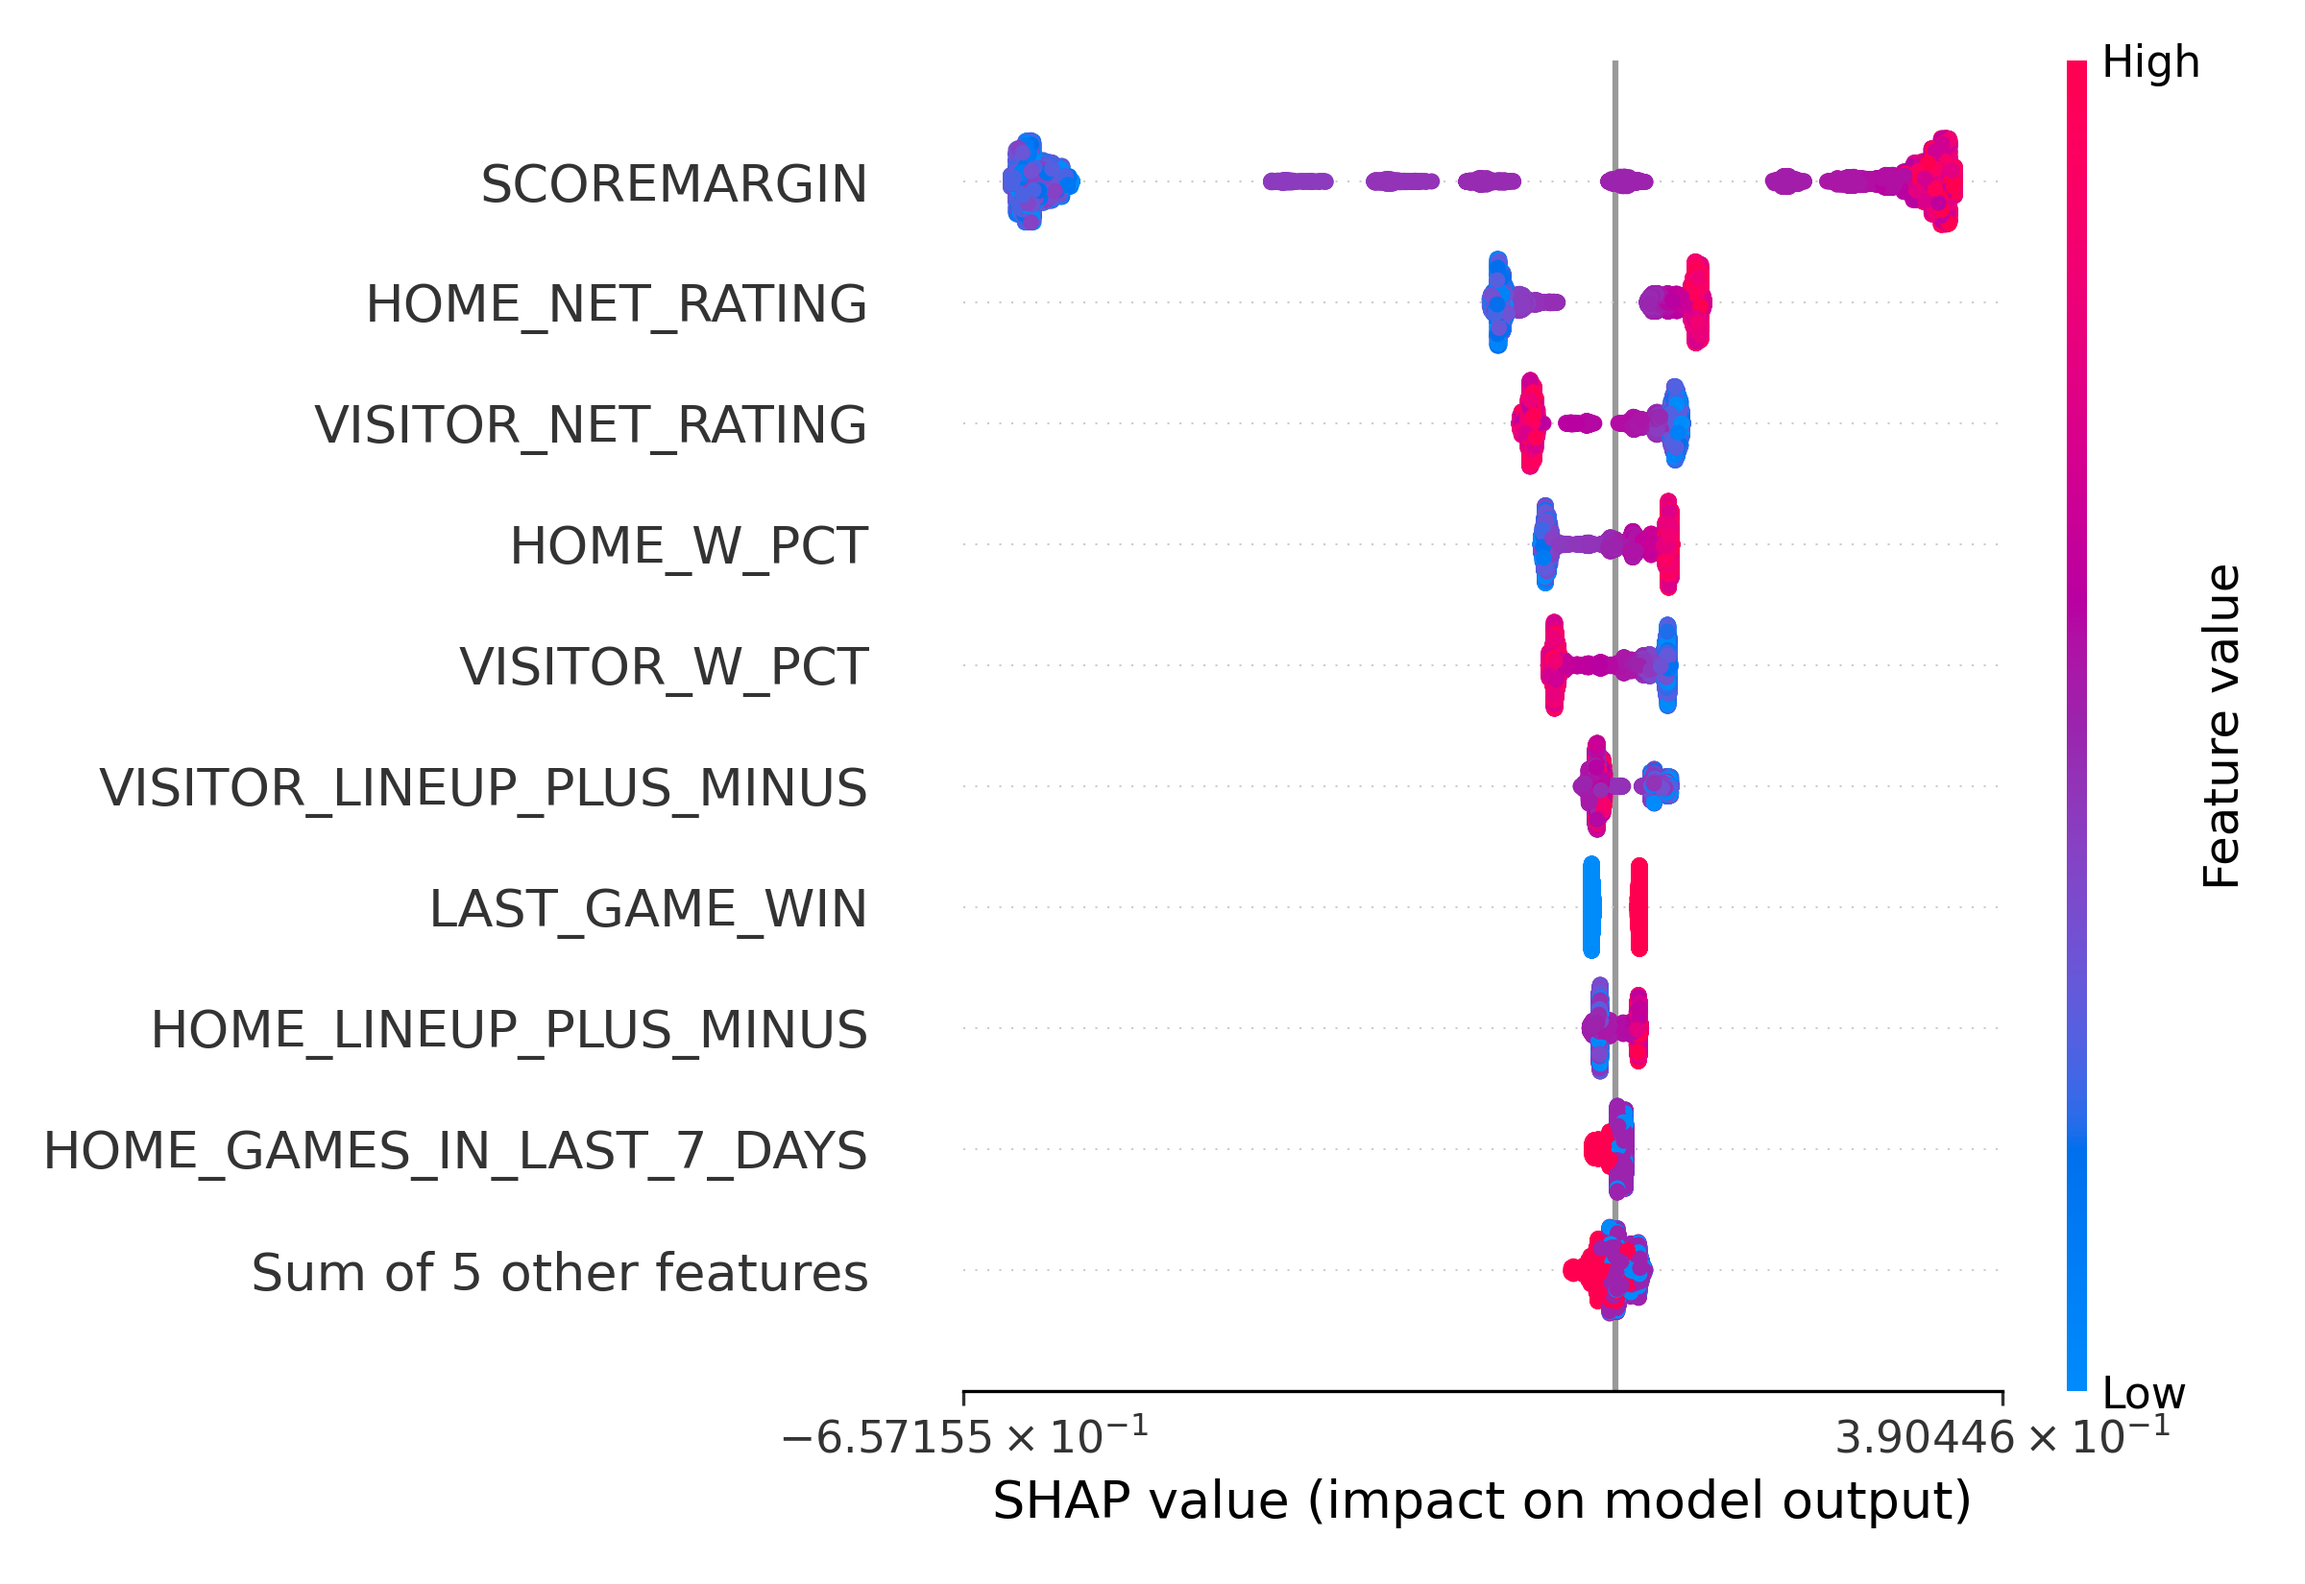
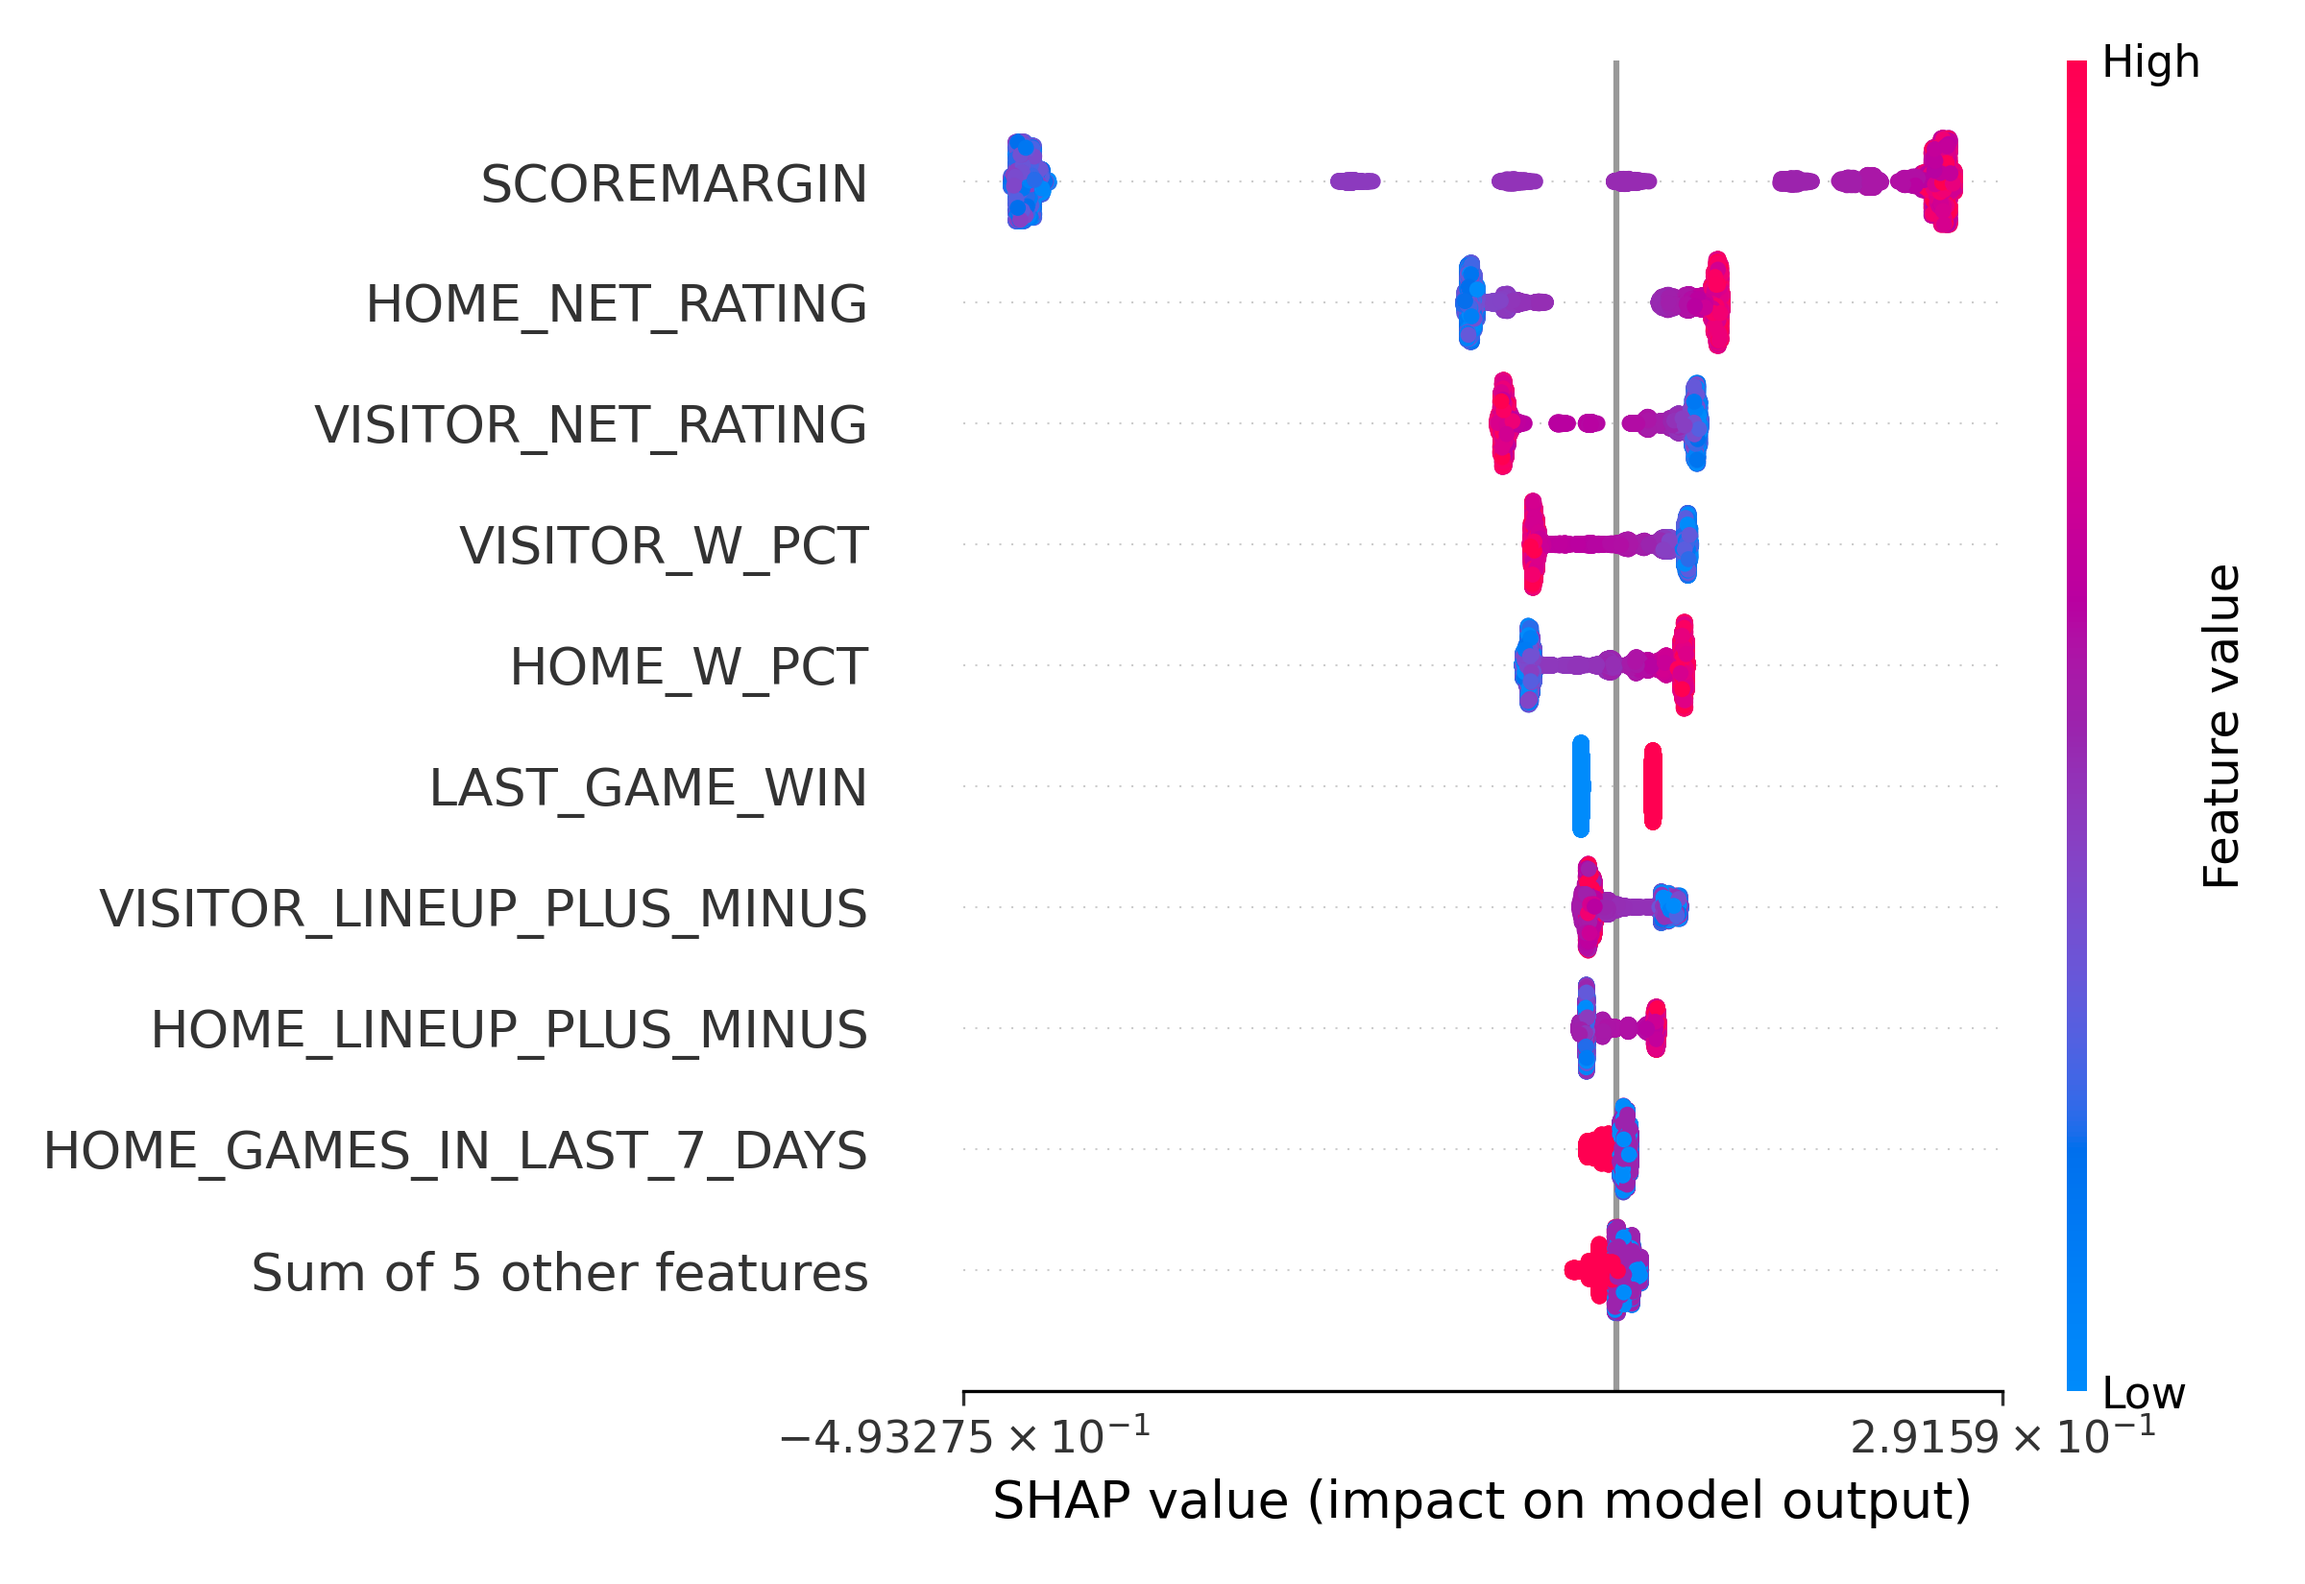
Updating docs after final model fit

diff --git a/docs/_model/performance.rst b/docs/_model/performance.rst
@@ -8,7 +8,7 @@ Overview
 
 * Both models perform better (on average) than the NBA's model, with a particular advantage in
   early game prediction.
-* The Lifelines model far outperforms the XGBoost model.
+* The Lifelines model outperforms the XGBoost model.
 
 For generating player ratings, we will use the Lifelines model.
 
@@ -41,9 +41,9 @@ Overall, the average AUROC lift for each model is summarized below:
 | Model     | Average AUROC | Percentage lift over NBA model |
 |           |               |                                |
 +===========+===============+================================+
-| XGBoost   | 0.822         | 2.863%                         |
+| XGBoost   | 0.808         | 3.3%                           |
 +-----------+---------------+--------------------------------+
-| Lifelines | 0.845         | 6.102%                         |
+| Lifelines | 0.831         | 6.315%                         |
 +-----------+---------------+--------------------------------+
 
 ---------------------
@@ -67,45 +67,10 @@ Tuning led to the following final hyperparameters:
 | Hyperparameter | Value                |
 |                |                      |
 +================+======================+
-| ``l1_ratio``   | 0.007837377210952526 |
+| ``l1_ratio``   | 0.007994777879269076 |
 +----------------+----------------------+
-| ``penalizer``  | 0.09388117587887976  |
+| ``penalizer``  | 0.09127606625097757  |
 +----------------+----------------------+
-
-with the following variable coefficients:
-
-+----------------------------------+---------------+
-| Variable                         | Coefficient   |
-|                                  |               |
-+==================================+===============+
-| ``SCOREMARGIN``                  | 6.059660e-03  |
-+----------------------------------+---------------+
-| ``HOME_LINEUP_PLUS_MINUS``       | -6.037603e-08 |
-+----------------------------------+---------------+
-| ``VISITOR_LINEUP_PLUS_MINUS``    | -3.438323e-07 |
-+----------------------------------+---------------+
-| ``HOME_NET_RATING``              | 3.071953e-03  |
-+----------------------------------+---------------+
-| ``VISITOR_NET_RATING``           | -2.805900e-03 |
-+----------------------------------+---------------+
-| ``HOME_W_PCT``                   | 4.033127e-02  |
-+----------------------------------+---------------+
-| ``VISITOR_W_PCT``                | -4.164156e-02 |
-+----------------------------------+---------------+
-| ``LAST_GAME_WIN``                | 9.586388e-03  |
-+----------------------------------+---------------+
-| ``HOME_GAMES_IN_LAST_3_DAYS``    | -1.518382e-05 |
-+----------------------------------+---------------+
-| ``VISITOR_GAMES_IN_LAST_3_DAYS`` | 5.745046e-06  |
-+----------------------------------+---------------+
-| ``HOME_GAMES_IN_LAST_5_DAYS``    | -9.242708e-06 |
-+----------------------------------+---------------+
-| ``VISITOR_GAMES_IN_LAST_5_DAYS`` | 2.554729e-06  |
-+----------------------------------+---------------+
-| ``HOME_GAMES_IN_LAST_7_DAYS``    | -1.492246e-05 |
-+----------------------------------+---------------+
-| ``VISITOR_GAMES_IN_LAST_7_DAYS`` | 1.824475e-06  |
-+----------------------------------+---------------+
 
 Isotonic regression produced the following calibration plot:
 
@@ -130,29 +95,29 @@ Tuning led to the following hyperparameters:
 | Hyperparameter           | Value                                      |
 |                          |                                            |
 +==========================+============================================+
-| ``colsample_bylevel``    | 0.8313910793985154                         |
+| ``colsample_bylevel``    | 1                                          |
 +--------------------------+--------------------------------------------+
-| ``colsample_bynode``     | 0.091553664397192                          |
+| ``colsample_bynode``     | 0.15221691031911938                        |
 +--------------------------+--------------------------------------------+
-| ``colsample_bytree``     | 0.965672861241127                          |
+| ``colsample_bytree``     | 0.6308916896893483                         |
 +--------------------------+--------------------------------------------+
-| ``gamma``                | 0.751343370739138                          |
+| ``gamma``                | 0.8083332824721229                         |
 +--------------------------+--------------------------------------------+
-| ``learning_rate``        | 0.006071133731874241                       |
+| ``learning_rate``        | 0.0006959999989275942                      |
 +--------------------------+--------------------------------------------+
 | ``max_delta_step``       | 1                                          |
 +--------------------------+--------------------------------------------+
 | ``max_depth``            | 4                                          |
 +--------------------------+--------------------------------------------+
-| ``min_child_weight``     | 516                                        |
+| ``min_child_weight``     | 518                                        |
 +--------------------------+--------------------------------------------+
 | ``monotone_constraints`` | (0, 0, 0, 0, 0, 0, 0, 0, 0, 0, 0, 1, 0, 0) |
 +--------------------------+--------------------------------------------+
-| ``reg_alpha``            | 0.6748161854062196                         |
+| ``reg_alpha``            | 0.8166483270728037                         |
 +--------------------------+--------------------------------------------+
-| ``reg_lambda``           | 0.5767841610693845                         |
+| ``reg_lambda``           | 0.2533343088849453                         |
 +--------------------------+--------------------------------------------+
-| ``subsample``            | 0.5118933763828355                         |
+| ``subsample``            | 0.5043820990853263                         |
 +--------------------------+--------------------------------------------+
 
 Isotonic regression produced the following calibration plot:

diff --git a/docs/_model/modelfit.rst b/docs/_model/modelfit.rst
@@ -126,7 +126,7 @@ After iteration, we used the following space:
 +-----------------------+-----------------------------+
 | ``colsample_bytree``  | :math:`Unif(0.5, 1)`        |
 +-----------------------+-----------------------------+
-| ``colsample_bylevel`` | :math:`Unif(0.8, 1)`        |
+| ``colsample_bylevel`` | 1                           |
 +-----------------------+-----------------------------+
 | ``colsample_bynode``  | :math:`Unif(0, 0.5)`        |
 +-----------------------+-----------------------------+
